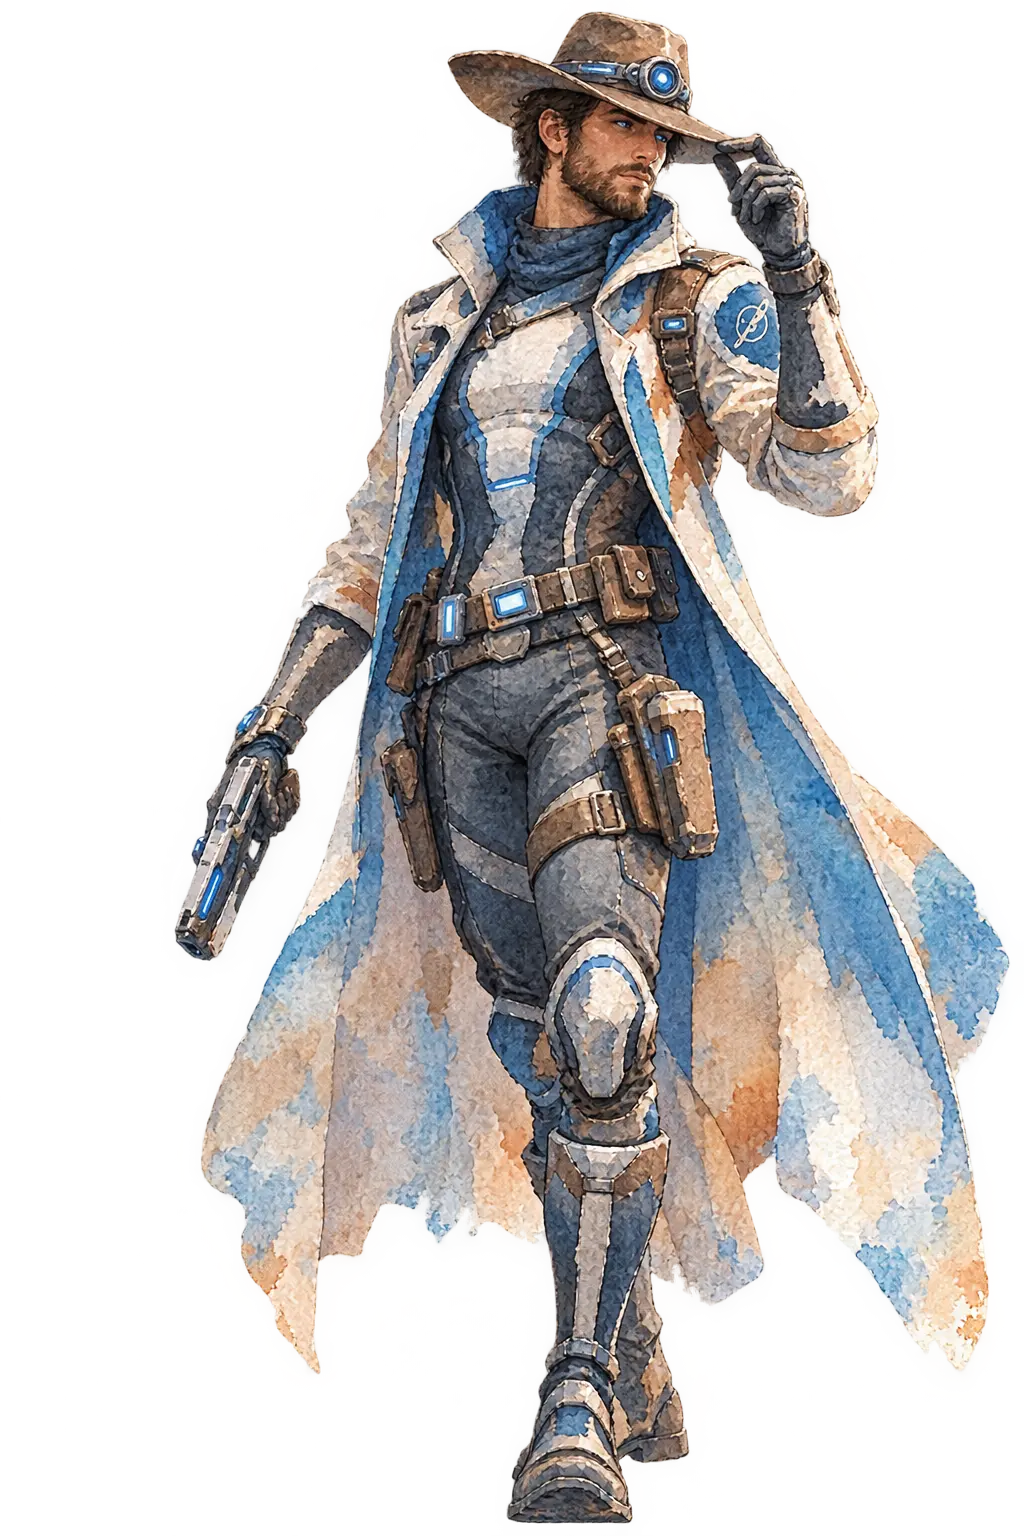
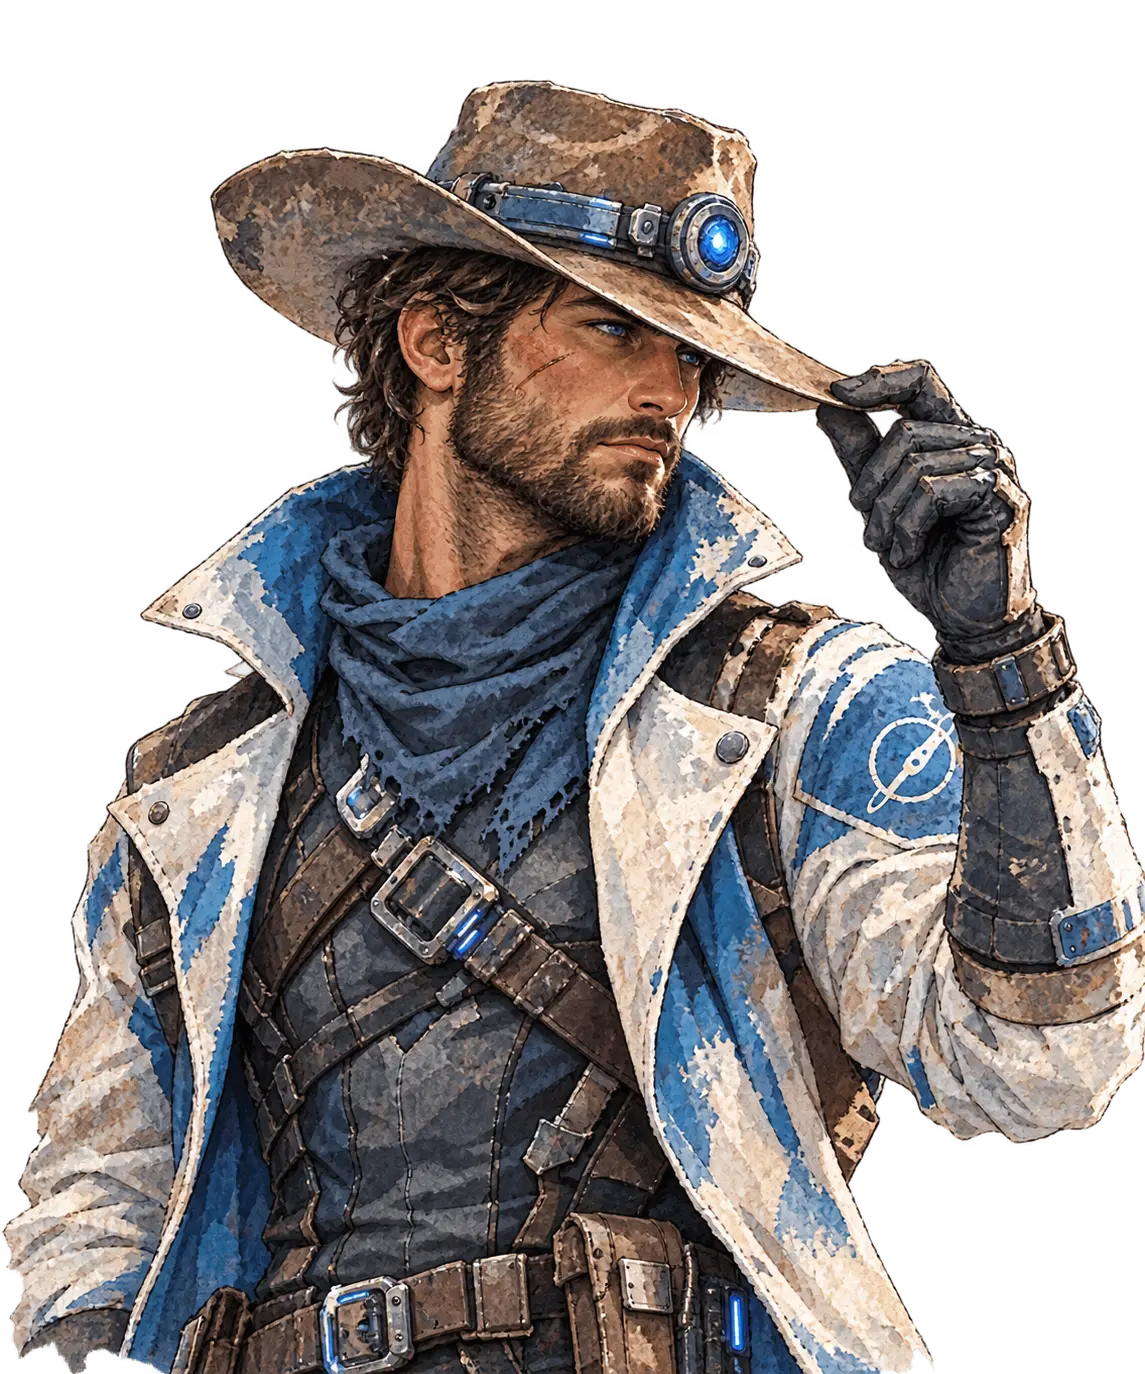
feat: update SuitAccentArticle with additional description and re-enable accent image import in ArticleListGear

diff --git a/src/components/pages/wiki/article-lists/ArticleListGear.tsx b/src/components/pages/wiki/article-lists/ArticleListGear.tsx
@@ -2,7 +2,7 @@
 import type { ArticleListType } from "../../../../data-types/types/AticleListType.ts";
 import { WikiArticleLinks } from "../../../../data-types/enums/wiki-article-enum.tsx";
 import { lazy } from "react";
-//import accent from "../../../../assets/images/art/accent.webp";
+import accent from "../../../../assets/images/art/accent.webp";
 import benchone from "../../../../assets/images/art/benchone.webp";
 import benchtwo from "../../../../assets/images/art/benchtwo.webp";
 import starsuit from "../../../../assets/images/art/starsuit.webp";
@@ -45,7 +45,7 @@ export const ArticleListGear: ArticleListType = {
             id: WikiArticleLinks.GEAR_SUIT_ACCENT,
             title: "Suit Accents",
             component: SuitAccentArticle,
-            //articleImage: accent,
+            articleImage: accent,
         },
         {
             id: WikiArticleLinks.GEAR_NON_SUIT,

diff --git a/src/components/pages/wiki/articles/gear/SuitAccentArticle.tsx b/src/components/pages/wiki/articles/gear/SuitAccentArticle.tsx
@@ -17,6 +17,8 @@ export const SuitAccentArticle = () => {
         .sort((a, b) => a.name.localeCompare(b.name));
     return (
         <div className="p-2 text-justify">
+            <p className="p-2">Each Suit is slim enough so other clothing can be more over them, capes, coats, dresses and
+                other stylish clothing. These are called accents</p>
             <p className="p-2">Players choose one accent to give them their own unique style and advantages. Each player can choose one from the accent list.</p>
 
             <div className="clear-both flex flex-col md:flex-row md:items-center md:justify-between gap-4 mt-4 border-t border-[var(--border)] pt-4">
